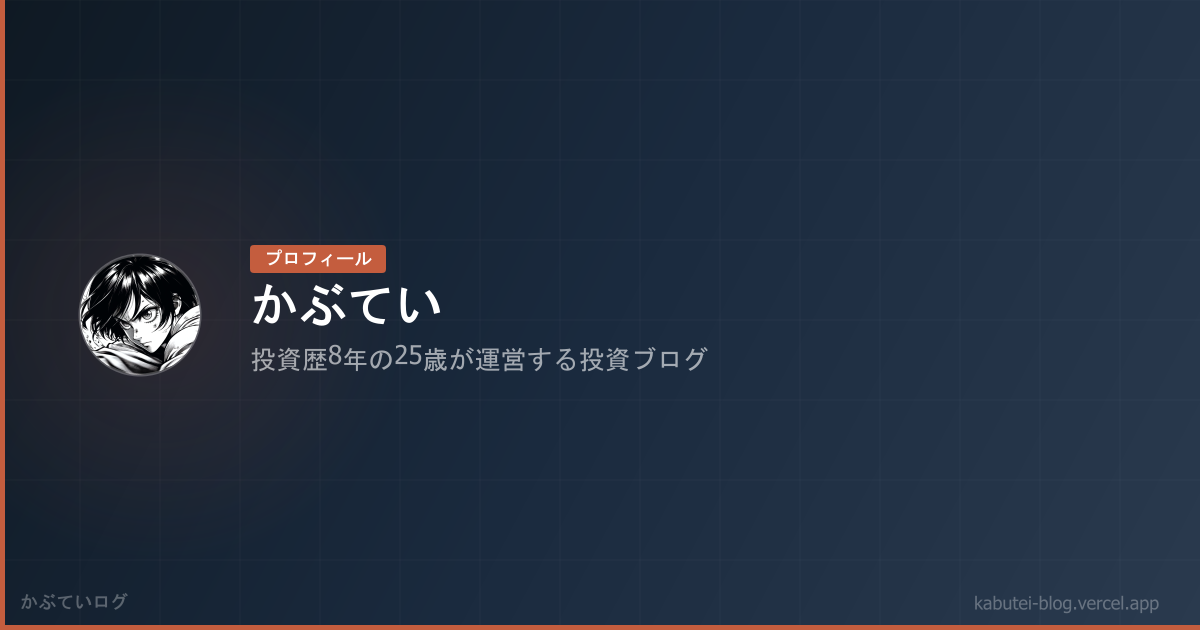
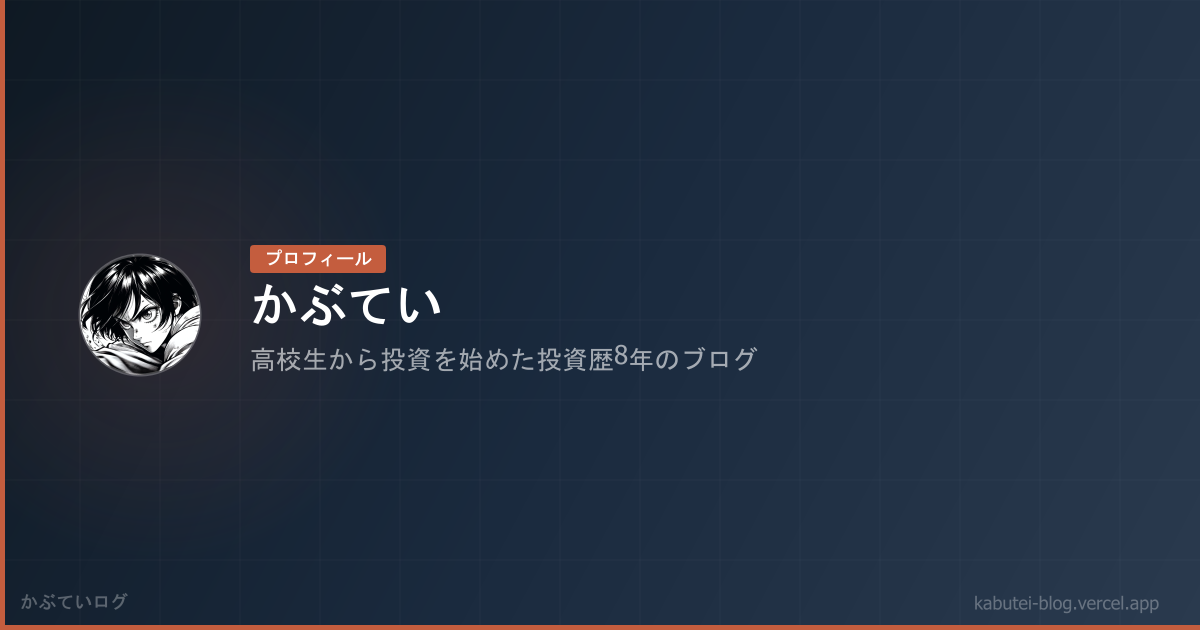
プロフィールから年齢を削除し「高校生から投資を始めた」に変更

Changed region(s): [[0.2158, 0.5429, 0.6475, 0.6032]]

diff --git a/tools/generate-og.js b/tools/generate-og.js
@@ -1,0 +1,206 @@
+const { createCanvas, loadImage } = require('canvas');
+const sharp = require('sharp');
+const fs = require('fs');
+const path = require('path');
+
+const W = 1200;
+const H = 630;
+
+const cards = [
+  {
+    file: 'og-main.png',
+    title: 'かぶていログ',
+    subtitle: '株式投資・仮想通貨の情報ブログ',
+    grad: ['#0f1923', '#162a3e', '#1a3550'],
+  },
+  {
+    file: 'og-sofi.png',
+    title: 'SoFi 完全解説',
+    subtitle: 'フィンテック革命を牽引する注目企業',
+    grad: ['#0f1923', '#162a3e', '#1a3a5c'],
+    tag: '株式投資',
+    tagColor: '#2d6a4f',
+  },
+  {
+    file: 'og-exchange.png',
+    title: '海外仮想通貨取引所3選',
+    subtitle: 'Binance・MEXC・Bitget を徹底比較',
+    grad: ['#0f1923', '#1a3050', '#2a4a6a'],
+    tag: '取引所比較',
+    tagColor: '#3a5a8c',
+  },
+  {
+    file: 'og-books.png',
+    title: 'おすすめ書籍2選',
+    subtitle: '投資力と生成AI活用力を高める',
+    grad: ['#1a1028', '#2d1b3d', '#4a2d5c'],
+    tag: 'おすすめ本',
+    tagColor: '#7c5c8a',
+  },
+  {
+    file: 'og-crypto.png',
+    title: '仮想通貨',
+    subtitle: '取引所比較・アルトコイン情報',
+    grad: ['#1a1a0e', '#1e2a1a', '#2a3a2a'],
+    tag: '仮想通貨',
+    tagColor: '#b08d2a',
+  },
+  {
+    file: 'og-about.png',
+    title: 'かぶてい',
+    subtitle: '高校生から投資を始めた投資歴8年のブログ',
+    grad: ['#0f1923', '#1a2a3e', '#2a3a4e'],
+    tag: 'プロフィール',
+    tagColor: '#c45d3e',
+  },
+  {
+    file: 'og-buying-dips.png',
+    title: '買い増しと余剰資金',
+    subtitle: '暴落をチャンスに変える方法',
+    grad: ['#0f1a15', '#1a2e24', '#2d4a3f'],
+    tag: '株式投資',
+    tagColor: '#2d6a4f',
+  },
+  {
+    file: 'og-xr-vr-ar.png',
+    title: 'XR/VR/AR市場のすべて',
+    subtitle: '初心者でもわかる業界の全体像',
+    grad: ['#1a1028', '#2a1540', '#3a0ca3'],
+    tag: '株式投資',
+    tagColor: '#2d6a4f',
+  },
+  {
+    file: 'og-stocks.png',
+    title: '株式投資の記事一覧',
+    subtitle: '注目銘柄の分析・投資戦略',
+    grad: ['#0f1a15', '#1a2e24', '#2d4a3f'],
+  },
+];
+
+async function generateCard(card, iconImg) {
+  const canvas = createCanvas(W, H);
+  const ctx = canvas.getContext('2d');
+
+  // Background gradient
+  const grad = ctx.createLinearGradient(0, 0, W, H);
+  grad.addColorStop(0, card.grad[0]);
+  grad.addColorStop(0.5, card.grad[1]);
+  grad.addColorStop(1, card.grad[2]);
+  ctx.fillStyle = grad;
+  ctx.fillRect(0, 0, W, H);
+
+  // Subtle grid
+  ctx.strokeStyle = 'rgba(255,255,255,0.03)';
+  ctx.lineWidth = 1;
+  for (let i = 0; i < W; i += 80) {
+    ctx.beginPath(); ctx.moveTo(i, 0); ctx.lineTo(i, H); ctx.stroke();
+  }
+  for (let j = 0; j < H; j += 80) {
+    ctx.beginPath(); ctx.moveTo(0, j); ctx.lineTo(W, j); ctx.stroke();
+  }
+
+  // Glow circle behind icon
+  const glowGrad = ctx.createRadialGradient(160, H / 2, 0, 160, H / 2, 250);
+  glowGrad.addColorStop(0, 'rgba(196,93,62,0.15)');
+  glowGrad.addColorStop(1, 'rgba(196,93,62,0)');
+  ctx.fillStyle = glowGrad;
+  ctx.fillRect(0, 0, W, H);
+
+  // Bottom accent bar
+  ctx.fillStyle = '#c45d3e';
+  ctx.fillRect(0, H - 5, W, 5);
+
+  // Left accent bar
+  ctx.fillStyle = '#c45d3e';
+  ctx.fillRect(0, 0, 5, H);
+
+  // Icon
+  const iconSize = 120;
+  const iconX = 80;
+  const iconY = H / 2 - iconSize / 2;
+
+  ctx.save();
+  ctx.beginPath();
+  ctx.arc(iconX + iconSize / 2, iconY + iconSize / 2, iconSize / 2, 0, Math.PI * 2);
+  ctx.closePath();
+  ctx.clip();
+  ctx.drawImage(iconImg, iconX, iconY, iconSize, iconSize);
+  ctx.restore();
+
+  // Icon border
+  ctx.strokeStyle = 'rgba(255,255,255,0.25)';
+  ctx.lineWidth = 3;
+  ctx.beginPath();
+  ctx.arc(iconX + iconSize / 2, iconY + iconSize / 2, iconSize / 2, 0, Math.PI * 2);
+  ctx.stroke();
+
+  const textX = iconX + iconSize + 50;
+  let titleY = H / 2;
+
+  // Tag
+  if (card.tag) {
+    const tagY = titleY - 70;
+    ctx.font = 'bold 18px sans-serif';
+    const tagW = ctx.measureText(card.tag).width + 28;
+    // Tag background
+    ctx.fillStyle = card.tagColor || '#c45d3e';
+    ctx.beginPath();
+    const r = 4;
+    ctx.moveTo(textX + r, tagY);
+    ctx.lineTo(textX + tagW - r, tagY);
+    ctx.quadraticCurveTo(textX + tagW, tagY, textX + tagW, tagY + r);
+    ctx.lineTo(textX + tagW, tagY + 28 - r);
+    ctx.quadraticCurveTo(textX + tagW, tagY + 28, textX + tagW - r, tagY + 28);
+    ctx.lineTo(textX + r, tagY + 28);
+    ctx.quadraticCurveTo(textX, tagY + 28, textX, tagY + 28 - r);
+    ctx.lineTo(textX, tagY + r);
+    ctx.quadraticCurveTo(textX, tagY, textX + r, tagY);
+    ctx.fill();
+    ctx.fillStyle = '#fff';
+    ctx.fillText(card.tag, textX + 14, tagY + 20);
+  }
+
+  // Title
+  ctx.fillStyle = '#ffffff';
+  ctx.font = 'bold 48px sans-serif';
+  ctx.textBaseline = 'middle';
+  ctx.fillText(card.title, textX, titleY - 10);
+
+  // Subtitle
+  ctx.fillStyle = 'rgba(255,255,255,0.6)';
+  ctx.font = '26px sans-serif';
+  ctx.fillText(card.subtitle, textX, titleY + 40);
+
+  // Site URL bottom right
+  ctx.fillStyle = 'rgba(255,255,255,0.3)';
+  ctx.font = '18px sans-serif';
+  ctx.textAlign = 'right';
+  ctx.fillText('kabutei-blog.vercel.app', W - 40, H - 28);
+  ctx.textAlign = 'left';
+
+  // Site name bottom left
+  ctx.fillStyle = 'rgba(255,255,255,0.3)';
+  ctx.font = 'bold 18px sans-serif';
+  ctx.fillText('かぶていログ', 20, H - 28);
+
+  // Save
+  const outDir = path.join(__dirname, '..', 'images');
+  const outPath = path.join(outDir, card.file);
+  const buf = canvas.toBuffer('image/png');
+  fs.writeFileSync(outPath, buf);
+  console.log('OK: ' + card.file);
+}
+
+async function main() {
+  const iconPath = path.join(__dirname, '..', 'images', 'profile-icon.webp');
+  const iconBuf = fs.readFileSync(iconPath);
+  const pngBuf = await sharp(iconBuf).png().toBuffer();
+  const iconImg = await loadImage(pngBuf);
+
+  for (const card of cards) {
+    await generateCard(card, iconImg);
+  }
+  console.log('\nDone! OG images saved to images/');
+}
+
+main().catch(console.error);

diff --git a/pages/about.html b/pages/about.html
@@ -11,10 +11,10 @@
   gtag('config', 'G-EWL6D0J2PX');
 </script>
   <meta name="viewport" content="width=device-width, initial-scale=1.0">
-  <meta name="description" content="かぶていログ運営者「かぶてい」のプロフィール。投資歴8年、仮想通貨と米国株を中心にトレード。高校生の頃から投資を始め、テンバガーも達成した経験を持つ25歳の投資ブロガー。">
+  <meta name="description" content="かぶていログ運営者「かぶてい」のプロフィール。高校生の頃から投資を始め、投資歴8年。仮想通貨と米国株を中心にトレード。テンバガーも達成した経験を持つ投資ブロガー。">
   <meta name="keywords" content="かぶてい, プロフィール, 投資ブログ, 米国株, 仮想通貨, 投資歴">
   <meta property="og:title" content="プロフィール｜かぶてい｜かぶていログ">
-  <meta property="og:description" content="かぶていログ運営者「かぶてい」のプロフィール。投資歴8年、仮想通貨と米国株を中心にトレード。高校生の頃から投資を始め、テンバガーも達成した経験を持つ25歳の投資ブロガー。">
+  <meta property="og:description" content="かぶていログ運営者「かぶてい」のプロフィール。高校生の頃から投資を始め、投資歴8年。仮想通貨と米国株を中心にトレード。テンバガーも達成した経験を持つ投資ブロガー。">
   <meta property="og:type" content="website">
   <meta property="og:url" content="https://kabutei-blog.vercel.app/pages/about.html">
   <meta property="og:image" content="https://kabutei-blog.vercel.app/images/og-about.png">
@@ -22,7 +22,7 @@
   <meta name="twitter:image" content="https://kabutei-blog.vercel.app/images/og-about.png">
   <meta name="twitter:site" content="@coderyuou710">
   <meta name="twitter:title" content="プロフィール｜かぶてい｜かぶていログ">
-  <meta name="twitter:description" content="かぶていログ運営者「かぶてい」のプロフィール。投資歴8年、仮想通貨と米国株を中心にトレード。テンバガーも達成した25歳の投資ブロガー。">
+  <meta name="twitter:description" content="かぶていログ運営者「かぶてい」のプロフィール。投資歴8年、仮想通貨と米国株を中心にトレード。テンバガーも達成した投資ブロガー。">
   <link rel="canonical" href="https://kabutei-blog.vercel.app/pages/about.html">
   <link rel="preconnect" href="https://fonts.googleapis.com">
   <link rel="preconnect" href="https://fonts.gstatic.com" crossorigin>
@@ -69,7 +69,7 @@
 
           <h2>はじめまして</h2>
           <p>当サイト「かぶていログ」を運営している<strong>かぶてい</strong>と申します。</p>
-          <p>25歳の社会人で、現在はコンサルティング会社に勤務しています。主にアメリカ株と仮想通貨を中心にトレードしており、<strong>投資歴は8年目</strong>になります。日々Xで投資に関する情報を発信しています。</p>
+          <p>高校生の頃から投資を始め、現在<strong>投資歴は8年目</strong>になります。主にアメリカ株と仮想通貨を中心にトレードしており、日々Xで投資に関する情報を発信しています。</p>
         </div>
 
         <!-- ========== 投資を始めたきっかけ ========== -->
@@ -162,7 +162,7 @@
         <div class="sidebar-profile">
           <img src="../images/profile-icon.webp" alt="かぶてい" class="sidebar-profile-img">
           <p class="sidebar-profile-name">かぶてい</p>
-          <p class="sidebar-profile-desc">25歳 / コンサル勤務 / 投資歴8年。米国株と仮想通貨を中心にトレードしています。</p>
+          <p class="sidebar-profile-desc">高校生から投資を始めて投資歴8年。米国株と仮想通貨を中心にトレードしています。</p>
           <a href="https://x.com/coderyuou710" class="sidebar-x" target="_blank" rel="noopener noreferrer">X（Twitter）をフォロー</a>
         </div>
 

diff --git a/index.html b/index.html
@@ -97,7 +97,7 @@
             </div>
             <div>
               <span class="tag tag-stock">プロフィール</span>
-              <h3><a href="pages/about.html">かぶてい ── 投資歴8年の25歳が運営する投資ブログ</a></h3>
+              <h3><a href="pages/about.html">かぶてい ── 高校生から投資を始めた投資歴8年のブログ</a></h3>
               <time datetime="2026-03-22">2026.03.22</time>
             </div>
           </article>
@@ -196,7 +196,7 @@
                 <span class="tag tag-stock">プロフィール</span>
                 <time datetime="2026-03-22">2026.03.22</time>
               </div>
-              <h3><a href="pages/about.html">プロフィール｜かぶてい ── 投資歴8年の25歳が運営する投資ブログ</a></h3>
+              <h3><a href="pages/about.html">プロフィール｜かぶてい ── 高校生から投資を始めた投資歴8年のブログ</a></h3>
               <p>高校生の頃から仮想通貨を始め、テンバガーも達成。米国株と仮想通貨を中心にトレードする運営者の自己紹介。</p>
             </div>
           </article>
@@ -238,7 +238,7 @@
         <div class="sidebar-profile">
           <img src="images/profile-icon.webp" alt="かぶてい" class="sidebar-profile-img">
           <p class="sidebar-profile-name">かぶてい</p>
-          <p class="sidebar-profile-desc">25歳 / コンサル勤務 / 投資歴8年。米国株と仮想通貨を中心にトレードしています。</p>
+          <p class="sidebar-profile-desc">高校生から投資を始めて投資歴8年。米国株と仮想通貨を中心にトレードしています。</p>
           <a href="https://x.com/coderyuou710" class="sidebar-x" target="_blank" rel="noopener noreferrer">X（Twitter）をフォロー</a>
         </div>
 

diff --git a/pages/books.html b/pages/books.html
@@ -233,7 +233,7 @@
         <div class="sidebar-profile">
           <img src="../images/profile-icon.webp" alt="かぶてい" class="sidebar-profile-img">
           <p class="sidebar-profile-name">かぶてい</p>
-          <p class="sidebar-profile-desc">25歳 / コンサル勤務 / 投資歴8年。米国株と仮想通貨を中心にトレードしています。</p>
+          <p class="sidebar-profile-desc">高校生から投資を始めて投資歴8年。米国株と仮想通貨を中心にトレードしています。</p>
           <a href="https://x.com/coderyuou710" class="sidebar-x" target="_blank" rel="noopener noreferrer">X（Twitter）をフォロー</a>
         </div>
 

diff --git a/pages/buying-dips.html b/pages/buying-dips.html
@@ -212,7 +212,7 @@
         <div class="sidebar-profile">
           <img src="../images/profile-icon.webp" alt="かぶてい" class="sidebar-profile-img">
           <p class="sidebar-profile-name">かぶてい</p>
-          <p class="sidebar-profile-desc">25歳 / コンサル勤務 / 投資歴8年。米国株と仮想通貨を中心にトレードしています。</p>
+          <p class="sidebar-profile-desc">高校生から投資を始めて投資歴8年。米国株と仮想通貨を中心にトレードしています。</p>
           <a href="https://x.com/coderyuou710" class="sidebar-x" target="_blank" rel="noopener noreferrer">X（Twitter）をフォロー</a>
         </div>
 

diff --git a/pages/crypto.html b/pages/crypto.html
@@ -113,7 +113,7 @@
         <div class="sidebar-profile">
           <img src="../images/profile-icon.webp" alt="かぶてい" class="sidebar-profile-img">
           <p class="sidebar-profile-name">かぶてい</p>
-          <p class="sidebar-profile-desc">25歳 / コンサル勤務 / 投資歴8年。米国株と仮想通貨を中心にトレードしています。</p>
+          <p class="sidebar-profile-desc">高校生から投資を始めて投資歴8年。米国株と仮想通貨を中心にトレードしています。</p>
           <a href="https://x.com/coderyuou710" class="sidebar-x" target="_blank" rel="noopener noreferrer">X（Twitter）をフォロー</a>
         </div>
 

diff --git a/pages/exchanges.html b/pages/exchanges.html
@@ -515,7 +515,7 @@
         <div class="sidebar-profile">
           <img src="../images/profile-icon.webp" alt="かぶてい" class="sidebar-profile-img">
           <p class="sidebar-profile-name">かぶてい</p>
-          <p class="sidebar-profile-desc">25歳 / コンサル勤務 / 投資歴8年。米国株と仮想通貨を中心にトレードしています。</p>
+          <p class="sidebar-profile-desc">高校生から投資を始めて投資歴8年。米国株と仮想通貨を中心にトレードしています。</p>
           <a href="https://x.com/coderyuou710" class="sidebar-x" target="_blank" rel="noopener noreferrer">X（Twitter）をフォロー</a>
         </div>
 

diff --git a/pages/sofi.html b/pages/sofi.html
@@ -331,7 +331,7 @@
         <div class="sidebar-profile">
           <img src="../images/profile-icon.webp" alt="かぶてい" class="sidebar-profile-img">
           <p class="sidebar-profile-name">かぶてい</p>
-          <p class="sidebar-profile-desc">25歳 / コンサル勤務 / 投資歴8年。米国株と仮想通貨を中心にトレードしています。</p>
+          <p class="sidebar-profile-desc">高校生から投資を始めて投資歴8年。米国株と仮想通貨を中心にトレードしています。</p>
           <a href="https://x.com/coderyuou710" class="sidebar-x" target="_blank" rel="noopener noreferrer">X（Twitter）をフォロー</a>
         </div>
 

diff --git a/pages/stocks.html b/pages/stocks.html
@@ -134,7 +134,7 @@
         <div class="sidebar-profile">
           <img src="../images/profile-icon.webp" alt="かぶてい" class="sidebar-profile-img">
           <p class="sidebar-profile-name">かぶてい</p>
-          <p class="sidebar-profile-desc">25歳 / コンサル勤務 / 投資歴8年。米国株と仮想通貨を中心にトレードしています。</p>
+          <p class="sidebar-profile-desc">高校生から投資を始めて投資歴8年。米国株と仮想通貨を中心にトレードしています。</p>
           <a href="https://x.com/coderyuou710" class="sidebar-x" target="_blank" rel="noopener noreferrer">X（Twitter）をフォロー</a>
         </div>
 

diff --git a/pages/xr-vr-ar.html b/pages/xr-vr-ar.html
@@ -212,7 +212,7 @@
         <div class="sidebar-profile">
           <img src="../images/profile-icon.webp" alt="かぶてい" class="sidebar-profile-img">
           <p class="sidebar-profile-name">かぶてい</p>
-          <p class="sidebar-profile-desc">25歳 / コンサル勤務 / 投資歴8年。米国株と仮想通貨を中心にトレードしています。</p>
+          <p class="sidebar-profile-desc">高校生から投資を始めて投資歴8年。米国株と仮想通貨を中心にトレードしています。</p>
           <a href="https://x.com/coderyuou710" class="sidebar-x" target="_blank" rel="noopener noreferrer">X（Twitter）をフォロー</a>
         </div>
 
